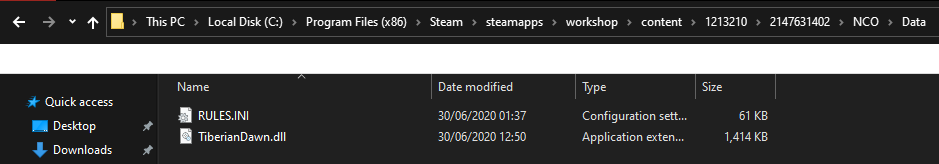
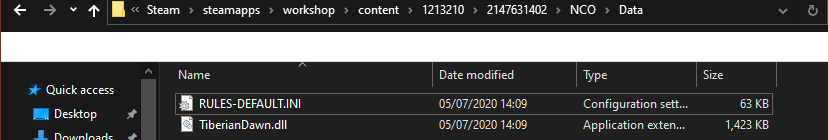
Updating rules file path guide

diff --git a/README.md b/README.md
@@ -93,6 +93,8 @@ The `RULES.INI` file and Lua Scripts are stored inside the mod folder. To find t
 
     <img src="docs/steam_rules_path_3.png" width="800" height="80" />
 
+- Copy the `RULES-DEFAULT` file and name the copy `RULES` (new releases of the mod will update `RULES-DEFAULT` so don't edit that file directly)
+
 ### Manual installation
 
 - Open the Start menu
@@ -100,4 +102,5 @@ The `RULES.INI` file and Lua Scripts are stored inside the mod folder. To find t
 - Click on the `Run` app that is highlighted
 - Copy and paste this: `explorer "%USERPROFILE\Documents\CnCRemastered\Mods\Tiberian_Dawn\nco\Data"`
 - Click `OK`
+- Copy the `RULES-DEFAULT` file and name the copy `RULES` (new releases of the mod will update `RULES-DEFAULT` so don't edit that file directly)
 
